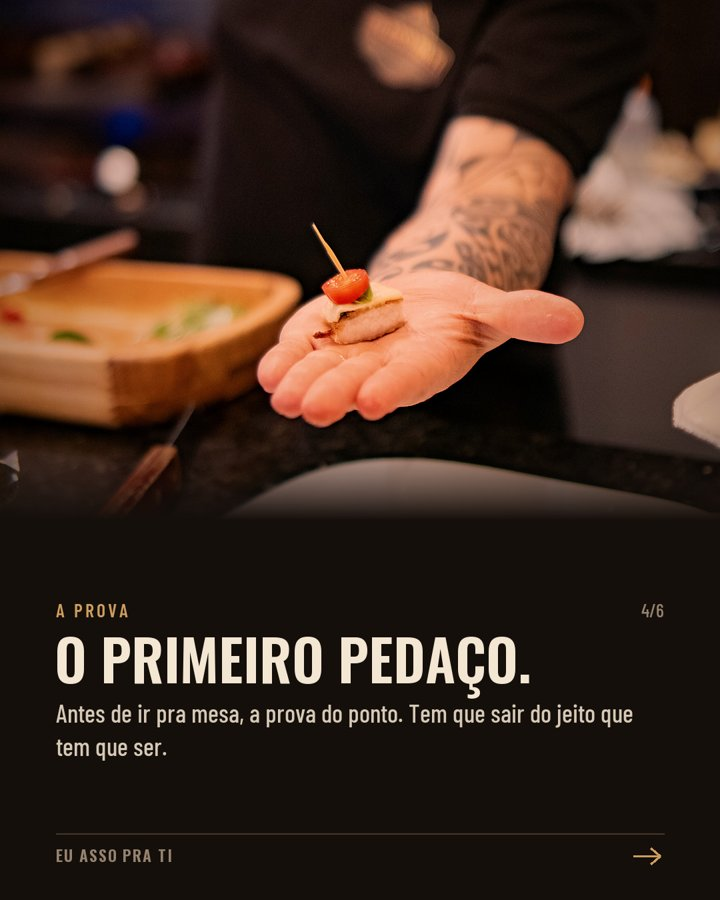
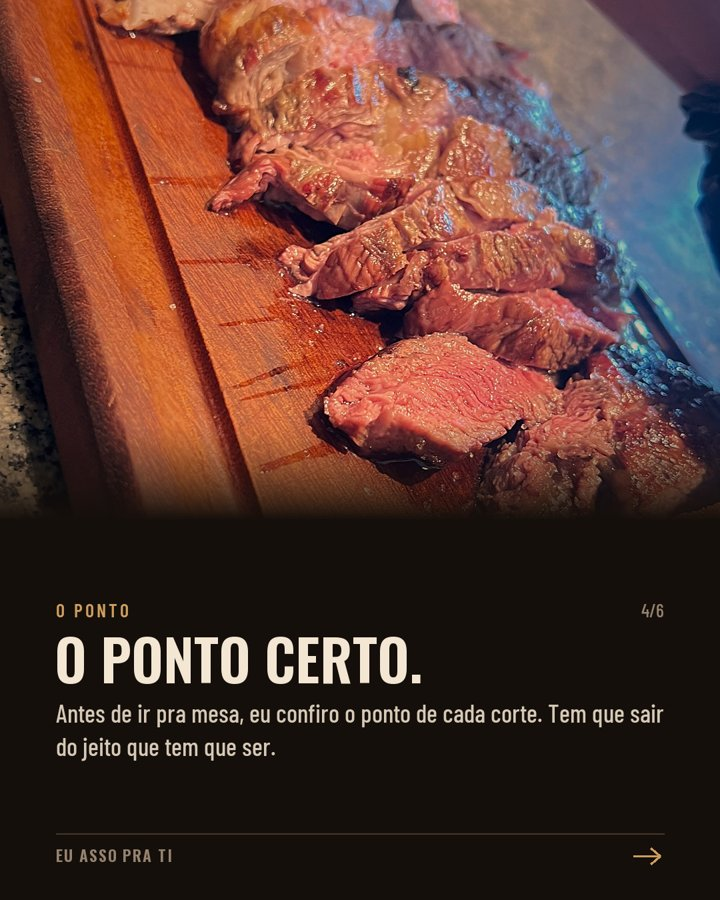
Post 16: card do ponto certo

diff --git a/calendario/index.html b/calendario/index.html
@@ -11,7 +11,7 @@
 --display:"Oswald","Arial Narrow",sans-serif;--label:"Barlow Condensed","Arial Narrow",sans-serif;--text:"Barlow",system-ui,sans-serif;color-scheme:dark}
 *{box-sizing:border-box}
 body{margin:0;background:var(--bg);color:var(--body);font:400 1.0625rem/1.6 var(--text)}
-.hero{position:relative;min-height:min(78vh,620px);display:grid;align-items:end;background:#000 url(img/p18-01.jpg?v=1793793266) center 40%/cover}
+.hero{position:relative;min-height:min(78vh,620px);display:grid;align-items:end;background:#000 url(img/p18-01.jpg?v=1793794045) center 40%/cover}
 .hero::after{content:"";position:absolute;inset:0;background:linear-gradient(180deg,rgba(21,15,11,.2) 0%,rgba(21,15,11,.55) 45%,var(--bg) 100%)}
 .hero .in{position:relative;z-index:1;max-width:760px;margin:0 auto;width:100%;padding:0 20px 36px}
 h1,h2{font-family:var(--display);font-weight:600;text-transform:uppercase;color:var(--fg);line-height:1.05;margin:0;text-wrap:balance}
@@ -84,19 +84,19 @@ footer{font:500 .9rem var(--label);color:var(--muted);letter-spacing:.06em;borde
 <section>
   <div class="post-head"><p class="k" style="margin:0">Terça 10/11 · 19h</p><span class="tag">Novo</span></div>
   <h2>Post 16: um dia de festa</h2>
-  <p>Refeito com o teu pitaco: só fotos de evento e pouco texto. A bancada montada, o fogo, a prova do primeiro pedaço, a carne fatiada na tábua e tu fechando.</p>
+  <p>Refeito com o teu pitaco: só fotos de evento e pouco texto. A bancada montada, o fogo, o ponto certo, a carne fatiada na tábua e tu fechando.</p>
   <div class="car" aria-label="Imagens do post 16">
-    <img src="img/p16-01.jpg?v=1793793266" alt="Capa: Um dia de festa" loading="lazy">
-    <img src="img/p16-02.jpg?v=1793793266" alt="A bancada montada" loading="lazy">
-    <img src="img/p16-03.jpg?v=1793793266" alt="Cada corte no seu tempo" loading="lazy">
-    <img src="img/p16-04.jpg?v=1793793266" alt="O primeiro pedaço" loading="lazy">
-    <img src="img/p16-05.jpg?v=1793793266" alt="Fatiado na hora" loading="lazy">
-    <img src="img/p16-06.jpg?v=1793793266" alt="A próxima pode ser a tua" loading="lazy">
+    <img src="img/p16-01.jpg?v=1793794045" alt="Capa: Um dia de festa" loading="lazy">
+    <img src="img/p16-02.jpg?v=1793794045" alt="A bancada montada" loading="lazy">
+    <img src="img/p16-03.jpg?v=1793794045" alt="Cada corte no seu tempo" loading="lazy">
+    <img src="img/p16-04.jpg?v=1793794045" alt="O ponto certo" loading="lazy">
+    <img src="img/p16-05.jpg?v=1793794045" alt="Fatiado na hora" loading="lazy">
+    <img src="img/p16-06.jpg?v=1793794045" alt="A próxima pode ser a tua" loading="lazy">
   </div>
   <p class="hint">Arrasta para o lado para ver as 6 imagens.</p>
   <details><summary>Ver a legenda</summary><div class="cap">Um dia de festa 🔥
 
-Antes da galera chegar, a bancada já tá montada e os cortes separados perto do fogo. Depois é cada corte no seu tempo, a prova do primeiro pedaço e a carne fatiada na hora, servida na tábua, quentinha, direto pra mesa.
+Antes da galera chegar, a bancada já tá montada e os cortes separados perto do fogo. Depois é cada corte no seu tempo, o ponto conferido e a carne fatiada na hora, servida na tábua, quentinha, direto pra mesa.
 
 É assim em cada festa que eu faço. E a próxima pode ser a tua.
 
@@ -112,11 +112,11 @@ Me chama no WhatsApp pelo link da bio ou no (51) 99565-7817 e me conta como tu i
   <h2>Post 17: pão de alho? aqui é focaccia</h2>
   <p>Um dos teus diferenciais, com as fotos do aniversário de 1 ano: a focaccia na parrilla, a carne e a salsa por cima, servida na tábua.</p>
   <div class="car" aria-label="Imagens do post 17">
-    <img src="img/p17-01.jpg?v=1793793266" alt="Capa: Pão de alho? Aqui é focaccia" loading="lazy">
-    <img src="img/p17-02.jpg?v=1793793266" alt="A focaccia vai pro fogo" loading="lazy">
-    <img src="img/p17-03.jpg?v=1793793266" alt="Carne e salsa fresquinha" loading="lazy">
-    <img src="img/p17-04.jpg?v=1793793266" alt="Servida na tábua" loading="lazy">
-    <img src="img/p17-05.jpg?v=1793793266" alt="É ela que deixa o churrasco em outra turma" loading="lazy">
+    <img src="img/p17-01.jpg?v=1793794045" alt="Capa: Pão de alho? Aqui é focaccia" loading="lazy">
+    <img src="img/p17-02.jpg?v=1793794045" alt="A focaccia vai pro fogo" loading="lazy">
+    <img src="img/p17-03.jpg?v=1793794045" alt="Carne e salsa fresquinha" loading="lazy">
+    <img src="img/p17-04.jpg?v=1793794045" alt="Servida na tábua" loading="lazy">
+    <img src="img/p17-05.jpg?v=1793794045" alt="É ela que deixa o churrasco em outra turma" loading="lazy">
   </div>
   <p class="hint">Arrasta para o lado para ver as 5 imagens.</p>
   <details><summary>Ver a legenda</summary><div class="cap">Pão de alho? Aqui é focaccia 🔥
@@ -139,11 +139,11 @@ Quer ela na tua festa? Me chama no WhatsApp pelo link da bio ou no (51) 99565-78
   <h2>Post 18: dezembro tá enchendo</h2>
   <p>Fecha a fase 1 puxando as datas de fim de ano: confraternização, Natal, aniversário. Algumas datas de dezembro já estão fechadas, e quem deixa pra última hora fica sem.</p>
   <div class="car" aria-label="Imagens do post 18">
-    <img src="img/p18-01.jpg?v=1793793266" alt="Capa: Dezembro tá enchendo" loading="lazy">
-    <img src="img/p18-02.jpg?v=1793793266" alt="Confraternização, Natal, aniversário" loading="lazy">
-    <img src="img/p18-03.jpg?v=1793793266" alt="Algumas já estão fechadas" loading="lazy">
-    <img src="img/p18-04.jpg?v=1793793266" alt="Me chama e a gente reserva" loading="lazy">
-    <img src="img/p18-05.jpg?v=1793793266" alt="Garante a tua data de dezembro" loading="lazy">
+    <img src="img/p18-01.jpg?v=1793794045" alt="Capa: Dezembro tá enchendo" loading="lazy">
+    <img src="img/p18-02.jpg?v=1793794045" alt="Confraternização, Natal, aniversário" loading="lazy">
+    <img src="img/p18-03.jpg?v=1793794045" alt="Algumas já estão fechadas" loading="lazy">
+    <img src="img/p18-04.jpg?v=1793794045" alt="Me chama e a gente reserva" loading="lazy">
+    <img src="img/p18-05.jpg?v=1793794045" alt="Garante a tua data de dezembro" loading="lazy">
   </div>
   <p class="hint">Arrasta para o lado para ver as 5 imagens.</p>
   <details><summary>Ver a legenda</summary><div class="cap">Dezembro tá enchendo 🔥
@@ -166,12 +166,12 @@ Me chama no WhatsApp pelo link da bio ou no (51) 99565-7817. O resto é comigo.
   <h2>Post 15: qual corte não pode faltar?</h2>
   <p>Já com os teus ajustes: entra o vazio como opção 2, Entrecôte, o asado de tiras e o matambrito com os teus textos. A picanha ficou de fora porque não temos foto boa de evento; se tu tiver uma tua, me manda.</p>
   <div class="car" aria-label="Imagens do post 15">
-    <img src="img/p15-01.jpg?v=1793793266" alt="Capa: Qual corte não pode faltar?" loading="lazy">
-    <img src="img/p15-02.jpg?v=1793793266" alt="Entrecôte" loading="lazy">
-    <img src="img/p15-03.jpg?v=1793793266" alt="Vazio" loading="lazy">
-    <img src="img/p15-04.jpg?v=1793793266" alt="Asado de tiras" loading="lazy">
-    <img src="img/p15-05.jpg?v=1793793266" alt="Matambrito à la pizza" loading="lazy">
-    <img src="img/p15-06.jpg?v=1793793266" alt="Comenta o número do teu time" loading="lazy">
+    <img src="img/p15-01.jpg?v=1793794045" alt="Capa: Qual corte não pode faltar?" loading="lazy">
+    <img src="img/p15-02.jpg?v=1793794045" alt="Entrecôte" loading="lazy">
+    <img src="img/p15-03.jpg?v=1793794045" alt="Vazio" loading="lazy">
+    <img src="img/p15-04.jpg?v=1793794045" alt="Asado de tiras" loading="lazy">
+    <img src="img/p15-05.jpg?v=1793794045" alt="Matambrito à la pizza" loading="lazy">
+    <img src="img/p15-06.jpg?v=1793794045" alt="Comenta o número do teu time" loading="lazy">
   </div>
   <p class="hint">Arrasta para o lado para ver as 6 imagens.</p>
   <details><summary>Ver a legenda</summary><div class="cap">Qual corte não pode faltar na tua festa? 🔥

diff --git a/semana/index.html b/semana/index.html
@@ -11,7 +11,7 @@
 --display:"Oswald","Arial Narrow",sans-serif;--label:"Barlow Condensed","Arial Narrow",sans-serif;--text:"Barlow",system-ui,sans-serif;color-scheme:dark}
 *{box-sizing:border-box}
 body{margin:0;background:var(--bg);color:var(--body);font:400 1.0625rem/1.6 var(--text)}
-.hero{position:relative;min-height:min(78vh,620px);display:grid;align-items:end;background:#000 url(img/p5-02.jpg?v=1793793266) center 40%/cover}
+.hero{position:relative;min-height:min(78vh,620px);display:grid;align-items:end;background:#000 url(img/p5-02.jpg?v=1793794045) center 40%/cover}
 .hero::after{content:"";position:absolute;inset:0;background:linear-gradient(180deg,rgba(21,15,11,.2) 0%,rgba(21,15,11,.55) 45%,var(--bg) 100%)}
 .hero .in{position:relative;z-index:1;max-width:760px;margin:0 auto;width:100%;padding:0 20px 36px}
 h1,h2{font-family:var(--display);font-weight:600;text-transform:uppercase;color:var(--fg);line-height:1.05;margin:0;text-wrap:balance}
@@ -81,13 +81,13 @@ footer{font:500 .9rem var(--label);color:var(--muted);letter-spacing:.06em;borde
   <h2>Post 5: gastronomia de fogo</h2>
   <p>Carrossel de 7 imagens: a carne de qualidade, cada uma no seu ponto, os legumes, o fatiado na hora, a sobremesa no fogo e o convite pra conversar.</p>
   <div class="car" aria-label="Imagens do post 5">
-    <img src="img/p5-01.jpg?v=1793793266" alt="Capa: Gastronomia de fogo" loading="lazy">
-    <img src="img/p5-02.jpg?v=1793793266" alt="Carne de qualidade" loading="lazy">
-    <img src="img/p5-03.jpg?v=1793793266" alt="Cada carne no seu ponto" loading="lazy">
-    <img src="img/p5-04.jpg?v=1793793266" alt="Os legumes também vão pro fogo" loading="lazy">
-    <img src="img/p5-05.jpg?v=1793793266" alt="Fatiado na hora" loading="lazy">
-    <img src="img/p5-06.jpg?v=1793793266" alt="E a sobremesa? No fogo, é claro" loading="lazy">
-    <img src="img/p5-07.jpg?v=1793793266" alt="Tem festa vindo aí?" loading="lazy">
+    <img src="img/p5-01.jpg?v=1793794045" alt="Capa: Gastronomia de fogo" loading="lazy">
+    <img src="img/p5-02.jpg?v=1793794045" alt="Carne de qualidade" loading="lazy">
+    <img src="img/p5-03.jpg?v=1793794045" alt="Cada carne no seu ponto" loading="lazy">
+    <img src="img/p5-04.jpg?v=1793794045" alt="Os legumes também vão pro fogo" loading="lazy">
+    <img src="img/p5-05.jpg?v=1793794045" alt="Fatiado na hora" loading="lazy">
+    <img src="img/p5-06.jpg?v=1793794045" alt="E a sobremesa? No fogo, é claro" loading="lazy">
+    <img src="img/p5-07.jpg?v=1793794045" alt="Tem festa vindo aí?" loading="lazy">
   </div>
   <p class="hint">Arrasta para o lado para ver as 7 imagens.</p>
   <details><summary>Ver a legenda</summary><div class="cap">Gastronomia de fogo 🔥 Eu cuido do fogo, tu aproveita a festa.
@@ -114,12 +114,12 @@ Me chama no WhatsApp pelo link da bio ou no (51) 99565-7817 e me conta como tu i
   <h2>Post 6: a tua festa, do teu jeito</h2>
   <p>Aqui não tem cardápio pronto: aniversário em casa, confraternização, casamento e formatura, cada um com o seu jeito. Fecha com "me conta a tua festa".</p>
   <div class="car" aria-label="Imagens do post 6">
-    <img src="img/p6-01.jpg?v=1793793266" alt="Capa: A tua festa, do teu jeito" loading="lazy">
-    <img src="img/p6-02.jpg?v=1793793266" alt="Pra família e os amigos" loading="lazy">
-    <img src="img/p6-03.jpg?v=1793793266" alt="Pra galera da empresa" loading="lazy">
-    <img src="img/p6-04.jpg?v=1793793266" alt="Pro dia que não volta" loading="lazy">
-    <img src="img/p6-05.jpg?v=1793793266" alt="Nada de cardápio pronto" loading="lazy">
-    <img src="img/p6-06.jpg?v=1793793266" alt="Me conta a tua festa" loading="lazy">
+    <img src="img/p6-01.jpg?v=1793794045" alt="Capa: A tua festa, do teu jeito" loading="lazy">
+    <img src="img/p6-02.jpg?v=1793794045" alt="Pra família e os amigos" loading="lazy">
+    <img src="img/p6-03.jpg?v=1793794045" alt="Pra galera da empresa" loading="lazy">
+    <img src="img/p6-04.jpg?v=1793794045" alt="Pro dia que não volta" loading="lazy">
+    <img src="img/p6-05.jpg?v=1793794045" alt="Nada de cardápio pronto" loading="lazy">
+    <img src="img/p6-06.jpg?v=1793794045" alt="Me conta a tua festa" loading="lazy">
   </div>
   <p class="hint">Arrasta para o lado para ver as 6 imagens.</p>
   <details><summary>Ver a legenda</summary><div class="cap">A tua festa, do teu jeito 🔥
@@ -144,7 +144,7 @@ Me chama no WhatsApp pelo link da bio ou no (51) 99565-7817 e me conta a tua fes
 <section>
   <div class="post-head"><p class="k" style="margin:0">Terça 13/10</p><span class="tag done">No ar</span></div>
   <h2>Post 4: o primeiro Reels</h2>
-  <video class="vid" src="video/p4-reels.mp4?v=1793793266" controls playsinline preload="metadata"></video>
+  <video class="vid" src="video/p4-reels.mp4?v=1793794045" controls playsinline preload="metadata"></video>
   <details><summary>Ver a legenda</summary><div class="cap">Quando tu chega, o fogo já tá pronto 🔥
 
 Eu chego bem antes pra preparar tudo: a carne de qualidade separada pra tua festa, o fogo no ponto certinho e tudo saindo da brasa direto pra tábua, servido quentinho pra galera.
